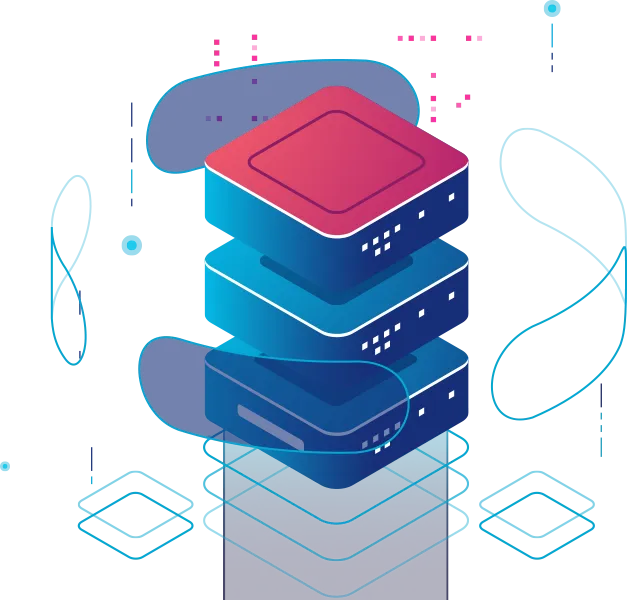
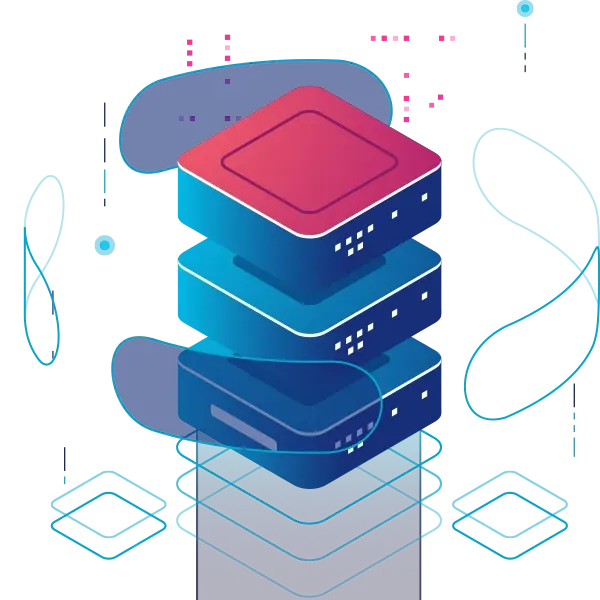
fix img ratio and remove some function in js

diff --git a/js/custom.js b/js/custom.js
@@ -7,16 +7,3 @@ function getYear() {
 
 getYear();
 
-// nice select
-$(document).ready(function () {
-    $('select').niceSelect();
-});
-
-// date picker
-$(function () {
-    $("#inputDate").datepicker({
-        autoclose: true,
-        todayHighlight: true
-    }).datepicker('update', new Date());
-});
-
